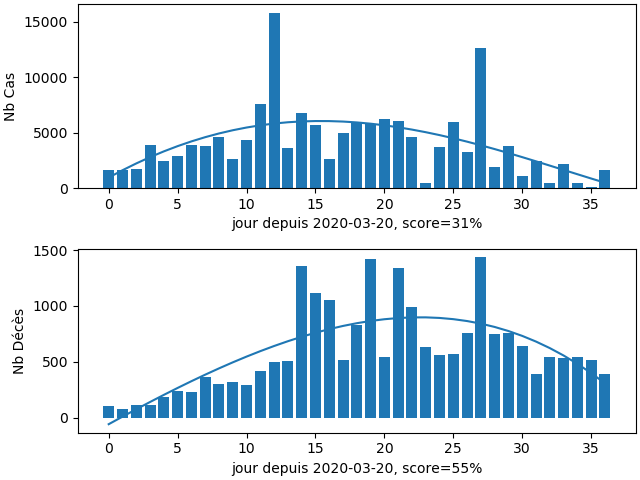
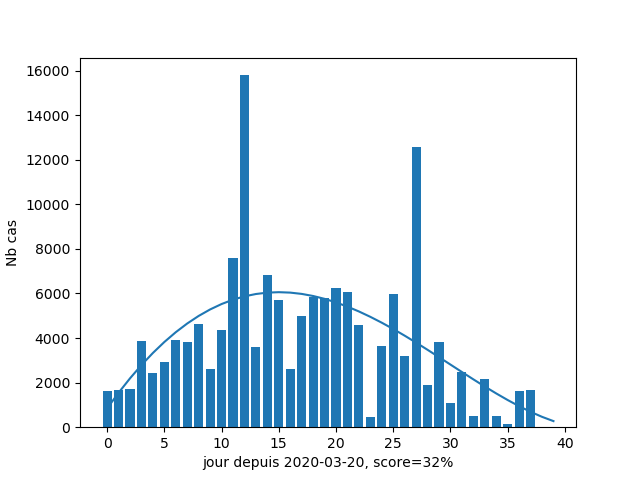
ml

diff --git a/ml.py b/ml.py
@@ -124,7 +124,7 @@ print(modelnbc.predict([[ideconf]])[0], modeldcc.predict([[ideconf]])[0])
 print(modelnblift.predict([[ijune]])[0], modelnbc.predict([[ijune]])[0])
 
 plt.bar(np.arange(len(dfc.NbCas)), dfc.NbCas)
-plt.plot(modelnbc.predict(np.arange(dfc.ix.values[0], dfc.ix.values[0] + 40).reshape(-1,1)))
+plt.plot(modelnbc.predict(np.arange(dfc.ix.values[0], dfc.ix.values[0] + 60).reshape(-1,1)))
 plt.title='Nb Cas'
 plt.xlabel(f'jour depuis {dconf}, score={scorenbc * 100:.0f}%')
 plt.ylabel('Nb cas')
@@ -151,4 +151,4 @@ txara = nbdcara / 20796
 print(f"Nb décès ARA: {nbdcara:.0f}")
 print(f"Nb infection ARA: {nbdcara * 1/tx:.0f}")
 print(f"Taux d'infection ARA: {(nbdcara * 1/tx) / 80000:.0f}%")
-
+print(f"Nouveau cas par jour en france: {modelnbc.predict([[ideconf]])[0]:.0f}")

diff --git a/readme.md b/readme.md
@@ -4,7 +4,7 @@
 <p>Evidement <b>je ne suis pas médecin</b> donc cette étude ne vaut rien!!</p>
 <p>J'ai téléchargé et nettoyé les données sur https://coronavirus.politologue.com/coronavirus-france.FR </p>
 <p>J'ai utilisé le framework Scikit-Learn en Python pour analyser les données avec du Machine Learning (ML) et une régression polynômiale ridge de degré 4. Il était impossible d'utiliser Keras car le nombre de données est trop faible</p>
-<p>J'ai également programmé en Python le modèle SCIRE+ (Sain-Contaminé-Infecté-Rétablie-Etendue) avec des améliorations en modulant le facteur r d'après https://interstices.info/modeliser-la-propagation-dune-epidemie
+<p>J'ai également programmé en Python le modèle SCIRE+ (Sain-Contaminé-Infecté-Rétablie-Etendue) avec des améliorations en modulant le facteur beta d'après https://interstices.info/modeliser-la-propagation-dune-epidemie
 <img src="data/scir.png"><img src="https://scikit-learn.org/stable/_static/scikit-learn-logo-small.png"><img src="https://www.python.org/static/img/python-logo@2x.png">
 <h2>Etude 3: Le déconfinement</h2>
 <p>Au déconfinement, le 11 mai (J128), je propose 4 scénarios, pour cela j'ai modifié SCIRE pour ajouter un taux de détection des individus infectés et une fonction d'atténuation sinusoidale dû à l'été R = R * DetectionRate * sin(2xpi/365)
@@ -20,7 +20,7 @@
         <li>Un énorme pic d'infection à J+10</li>
         <li>Reconfinement</li>
     </ul>
-    <img src="data/figured2.png">
+    <img src="data/figured2.png"><img src="data/figureml.png">
 <p>Scénario Grenoblois médian: les mesures de protection fonctionnent avec 90% de détection, isolement des patients infectés, protections, un été protecteur, R = R0 * 0.1 - sin(t) * R0 / 2 ~= [0:0.5]
     <ul>
         <li>Un petit pic en mai, puis un été clément</li>
